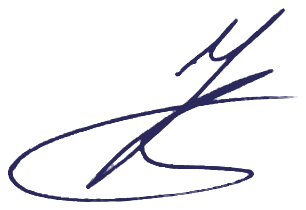
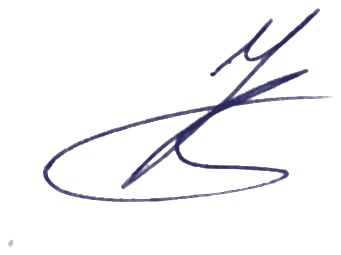
Add files via upload

Changed region(s): [[0.0294, 0.0286, 0.9706, 0.9714], [0.0, 0.9429, 0.0588, 0.9714]]

diff --git a/sign_jitter.py b/sign_jitter.py
@@ -259,12 +259,54 @@ def _pick(pool: list, name: str):
     return None
 
 
+def _smooth_noise(size, rnd, cells: int, blur: float):
+    """Гладкий шум 0..1 нужной крупности — на нём держится и непропечатка
+    факсимиле, и уникализация края живого оттиска."""
+    from PIL import Image, ImageFilter
+    w, h = size
+    small = Image.new("L", (cells, cells))
+    small.putdata([rnd.randrange(256) for _ in range(cells * cells)])
+    img = small.resize((w, h), Image.BICUBIC)
+    if blur:
+        img = img.filter(ImageFilter.GaussianBlur(blur))
+    return img
+
+
+def _uniquify(alpha, rnd):
+    """Слабое шевеление края живого оттиска.
+
+    Набор конечен, и один и тот же скан рано или поздно попадётся дважды.
+    Здесь порог бинаризации гуляет вдоль контура на доли пикселя: сам
+    оттиск остаётся собой, но два документа с одной базой не совпадают
+    при наложении (расходятся примерно по 2% площади). Заменять этим
+    живую фактуру нельзя — только шевелить: амплитуда вдвое слабее той,
+    что понадобилась бы нарисованному факсимиле.
+    """
+    from PIL import Image, ImageChops, ImageFilter
+    soft = alpha.filter(ImageFilter.GaussianBlur(0.7))
+    n = _smooth_noise(alpha.size, rnd, 220, 0.6)
+    a = np_from(soft); noise = np_from(n)
+    out = (a - (128 + (noise / 255.0 * 2 - 1) * 34)) * 1.5 + 140
+    return np_to(out, alpha.size)
+
+
+def np_from(img):
+    import numpy as np
+    return np.asarray(img).astype("float32")
+
+
+def np_to(arr, size):
+    import numpy as np
+    from PIL import Image
+    return Image.fromarray(np.clip(arr, 0, 255).astype("uint8"))
+
+
 def _mul(a, b):
     from PIL import ImageChops
     return ImageChops.multiply(a, b)
 
 
-def _ink(blob: bytes, kind: str, d: dict) -> bytes | None:
+def _ink(blob: bytes, kind: str, d: dict, from_pool: bool = False) -> bytes | None:
     """Прозрачность, размытие и непропечатка по разыгранным значениям.
     None — если Pillow нет или картинка не поддалась: тогда остаётся
     оригинал."""
@@ -285,16 +327,22 @@ def _ink(blob: bytes, kind: str, d: dict) -> bytes | None:
         if blur > 0.05:
             alpha = alpha.filter(ImageFilter.GaussianBlur(blur))
 
-        if p["mottle"] > 0 and "m" in d:
-            # Низкочастотный шум: мелкая случайная картинка, растянутая на
-            # весь оттиск. Даёт пятна непропечатки, а не «телевизионный снег».
-            # Своя Random от сохранённого seed — чтобы пятна повторялись.
+        # Поле «m» — seed фактуры чернил. Что именно оно задаёт, зависит от
+        # источника картинки: у живого оттиска из набора уже есть своя
+        # неровность, ему нужна только уникализация края; рисованному
+        # факсимиле нужна имитация непропечатки.
+        if "m" in d:
             mr = random.Random(int(d["m"]))
-            w, h = im.size
-            small = Image.new("L", (mr.randint(5, 9), mr.randint(4, 7)))
-            lo = int(255 * (1 - p["mottle"]))
-            small.putdata([mr.randint(lo, 255) for _ in range(small.width * small.height)])
-            alpha = _mul(alpha, small.resize((w, h), Image.BICUBIC))
+            if from_pool:
+                alpha = _uniquify(alpha, mr)
+            elif p["mottle"] > 0:
+                # Низкочастотный шум: мелкая случайная картинка, растянутая
+                # на весь оттиск. Даёт пятна непропечатки, а не «снег».
+                w, h = im.size
+                small = Image.new("L", (mr.randint(5, 9), mr.randint(4, 7)))
+                lo = int(255 * (1 - p["mottle"]))
+                small.putdata([mr.randint(lo, 255) for _ in range(small.width * small.height)])
+                alpha = _mul(alpha, small.resize((w, h), Image.BICUBIC))
 
         a_factor = float(d.get("a", 1.0))
         if a_factor < 0.999:
@@ -435,7 +483,7 @@ def apply(doc, doc_key: str, spec: str | None = None) -> str:
                     if fit:
                         cx, cy, base_dx, base_dy = fit
                     blob = variant
-                part._blob = _ink(blob, kind, d) or blob
+                part._blob = _ink(blob, kind, d, path is not None) or blob
 
         # ── сдвиг ──────────────────────────────────────────────────────
         ncx0 = int(cx * float(d["k"]))      # ширина после масштаба — для
@@ -591,7 +639,7 @@ def apply_xlsx(path, doc_key: str, spec: str | None = None) -> str:
                                 if fit:
                                     fit_ext, fit_off = fit[:2], fit[2:]
                             blob = variant
-                        parts[media] = _ink(blob, kind, d) or blob
+                        parts[media] = _ink(blob, kind, d, pick is not None) or blob
 
                 # размер
                 ext = re.search(r'<xdr:ext cx="(\d+)" cy="(\d+)"/>', block)

diff --git a/assets/README.md b/assets/README.md
@@ -5,12 +5,23 @@
 наклон и неравномерность чернил. Размер печати при этом не меняется —
 живой оттиск всегда одного размера; масштабируется только подпись.
 
-- `signatures/` — росчерки (PNG с прозрачным фоном).
-- `stamps/` — оттиски печати.
+- `signatures/` — росчерки (PNG с прозрачным фоном), 29 шт.
 
-Пустая папка = используется картинка из шаблона. Это рабочий режим по
-умолчанию: разброс положения, угла и чернил работает и без наборов,
-но сама траектория подписи тогда во всех документах одна.
+При нарезке важно НЕ пережать плотность: «белая точка» 0,85 (не 0,55),
+иначе средний и сильный нажим ручки схлопываются в один тон и подпись
+выглядит нарисованной. Ориентир: полностью непрозрачных пикселей около
+10%, медиана плотности ~190.
+- `stamps/` — оттиски печати (30 живых оттисков, два скана 06.09.2026).
+
+Пустая папка = используется картинка из шаблона: разброс положения, угла
+и чернил работает и без набора, но росчерк (оттиск) тогда во всех
+документах один и тот же.
+
+Картинке из набора НЕ добавляется имитация непропечатки: у живого оттиска
+своя неровность, вторая поверх неё даёт грязь. Вместо неё край слегка
+шевелится (`_uniquify`) — набор конечен, и один и тот же скан рано или
+поздно попадётся дважды; после шевеления два таких документа не совпадают
+при наложении. Прозрачность, размытие, сдвиг и поворот — как обычно.
 
 Как пополнить набор подписей: расписаться 8–10 раз чёрной ручкой на белом
 листе, отсканировать 300–600 dpi, вырезать каждую подпись отдельно, убрать
